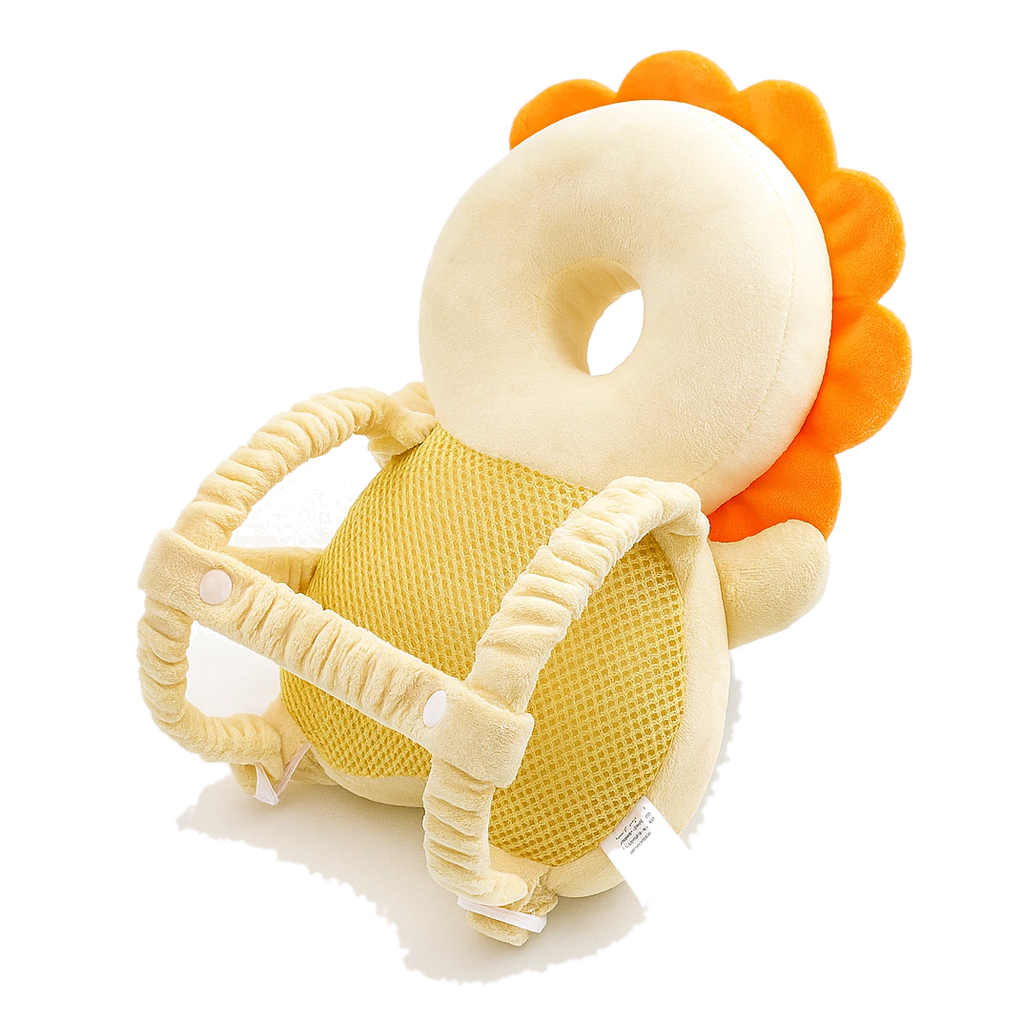
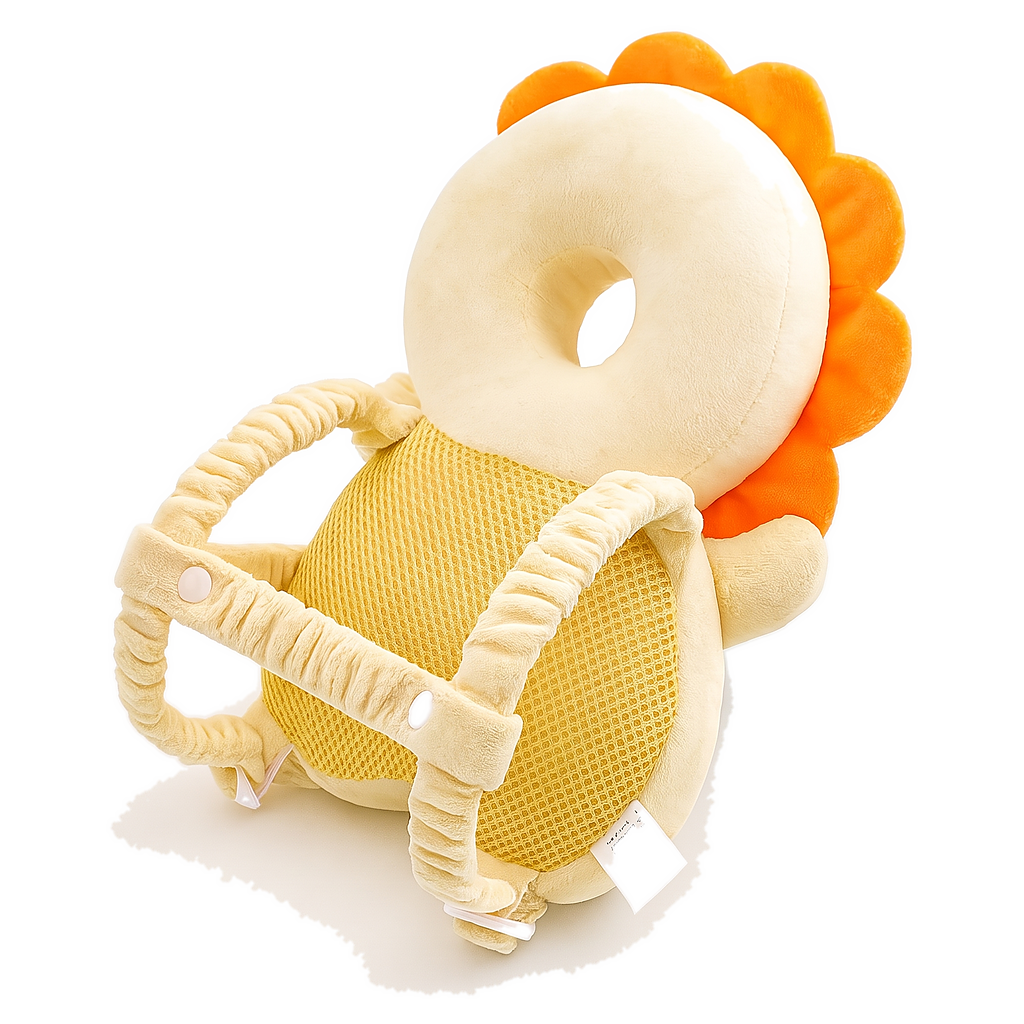
Protetor de cabeça: fotos da loja melhoradas no pro 2K (04, 05, 06) + regra no kit
Claude-Session: https://claude.ai/code/session_018JC4h3PWNbnPoL4pPcjoDg

Changed region(s): [[0.0938, 0.0312, 0.9062, 0.9688], [0.5, 0.1875, 0.625, 0.375], [0.7188, 0.375, 0.75, 0.4062]]

diff --git a/_kit/sistema-visual.md b/_kit/sistema-visual.md
@@ -72,3 +72,8 @@ Reprovar e refazer se: produto alterado; texto com erro; título fora do roxo; m
 - Nunca clarear por limiar global ("tudo acima de X vira branco"): produtos creme/bege/branco perdem pedaços. Separar o fundo pela cor dele (neutro, pouco saturado) ligado às bordas, manter só as regiões grandes do produto e suavizar 1 px.
 - Depois do recorte, aplicar máscara de nitidez leve (UnsharpMask raio 1,5 / 65%): o Gemini flash entrega a foto um pouco macia.
 - Para mais qualidade na capa/close: `gerar_cena.py --model gemini-3.1-pro-image --size 2K` (custa mais; usar só na capa e no close de detalhe) ou partir da foto de estúdio da loja quando ela já for nítida.
+
+## Fotos existentes também passam por melhoria (regra do dono, 19/10/2026)
+- Toda foto da loja ou do fornecedor que entrar numa arte (recortada ou ampliada) passa ANTES pelo Gemini pro em 2K com o prompt de melhoria (`prompts/melhorar.txt`: upscale + nitidez, tudo idêntico), depois reduz para 1024 com Lanczos + UnsharpMask leve. Sem isso a foto ampliada fica macia e destoa das geradas.
+- Conferir a melhoria como qualquer geração (o pro pode trocar textura ou reenquadrar). Em paralelo, os arquivos de saída podem vir trocados entre si: identifique pelo conteúdo, não pelo nome.
+- Modelo padrão: `gemini-3-pro-image --size 2K` para capa, cenários e melhoria; o flash só para testes.
